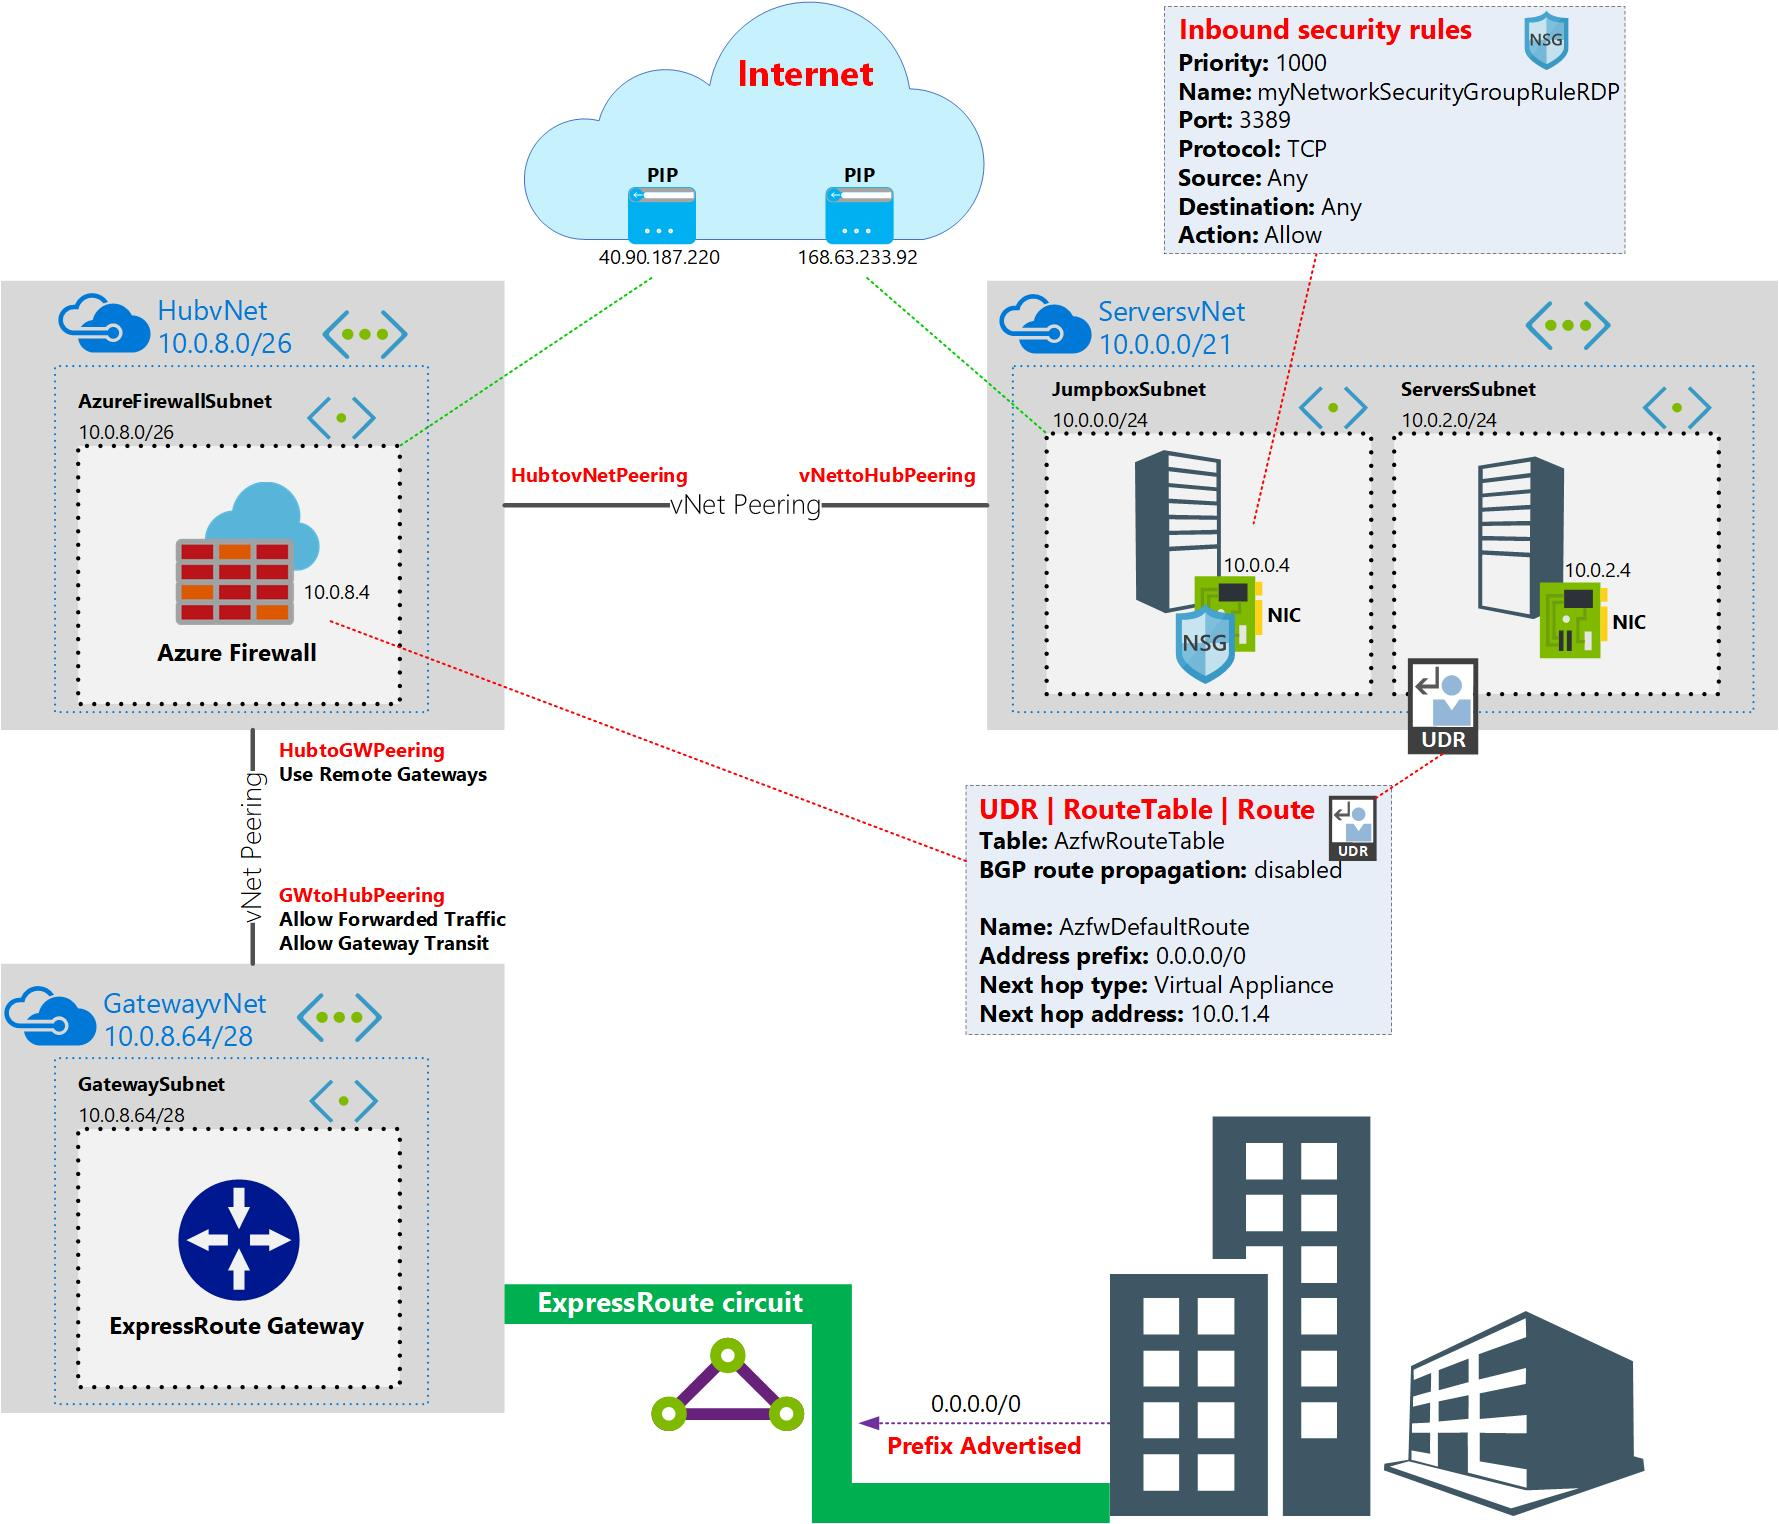
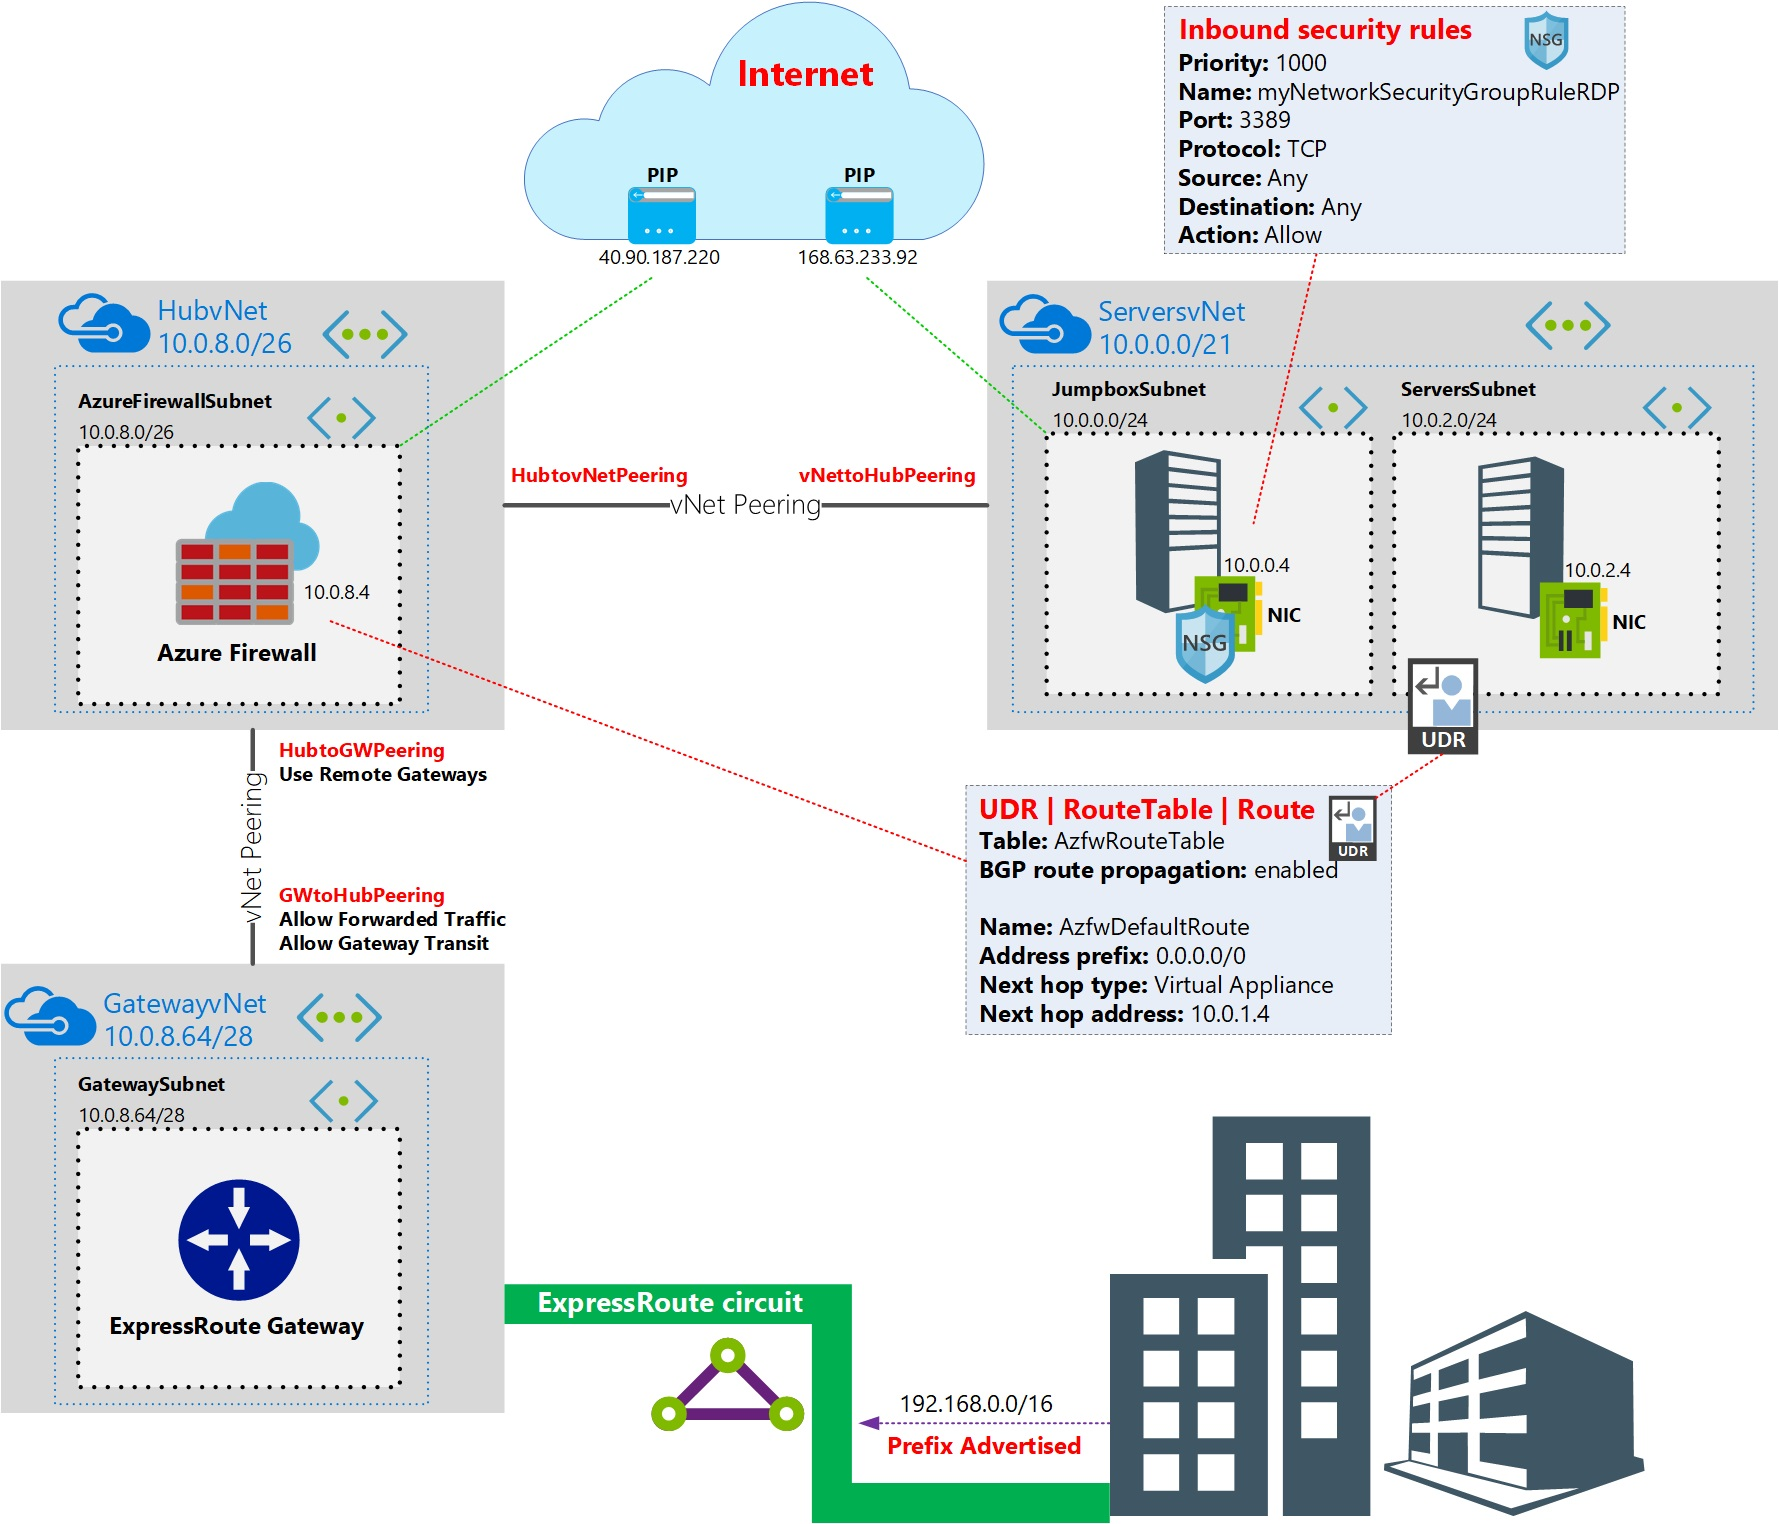
.

Changed region(s): [[0.7111, 0.5551, 0.7729, 0.586], [0.5256, 0.8944, 0.5874, 0.9252], [0.0618, 0.6476, 0.0927, 0.6785]]

diff --git a/README.md b/README.md
@@ -1,4 +1,4 @@
-# Create AzureFirewall using an Azure ARM template - Non Gov
+# Create AzureFirewall using an Azure ARM template - Trust Public Cloud
 
 <a href="https://portal.azure.com/#create/Microsoft.Template/uri/https%3A%2F%2Fraw.githubusercontent.com%2Fmarckean%2FAzureFirewall02%2Fmaster%2Fazuredeploy.json" target="_blank">
     <img src="http://azuredeploy.net/deploybutton.png"/>
@@ -9,7 +9,7 @@
 
 <p style="text-align:center"><img src="AzureFirewall02.jpg" alt="Azure Firewall Hub & Spoke"></p>
 
-**Non Gov** means you trust sending traffic out to the internet from within Azure. Also included in this example is the Jumpbox Subnet, which a common setup so you can access workloads direct from specific source networks directly into Azure. 
+This **Trust Public Cloud** option means you trust sending traffic out to the internet from within Azure. The Azure Firewall is used as a junction box to allow/disallow to control traffic in and out of Azure. Also included in this example is the Jumpbox Subnet, which a common setup so you can access workloads direct from specific source networks directly into Azure. 
 
 This template creates 3 virtual networks (Servers vNet, Gateway vNet and a Hub vNet for an Azure Firewall). Also inclueded is a jumpbox VM with public IP with RDP access.
 
